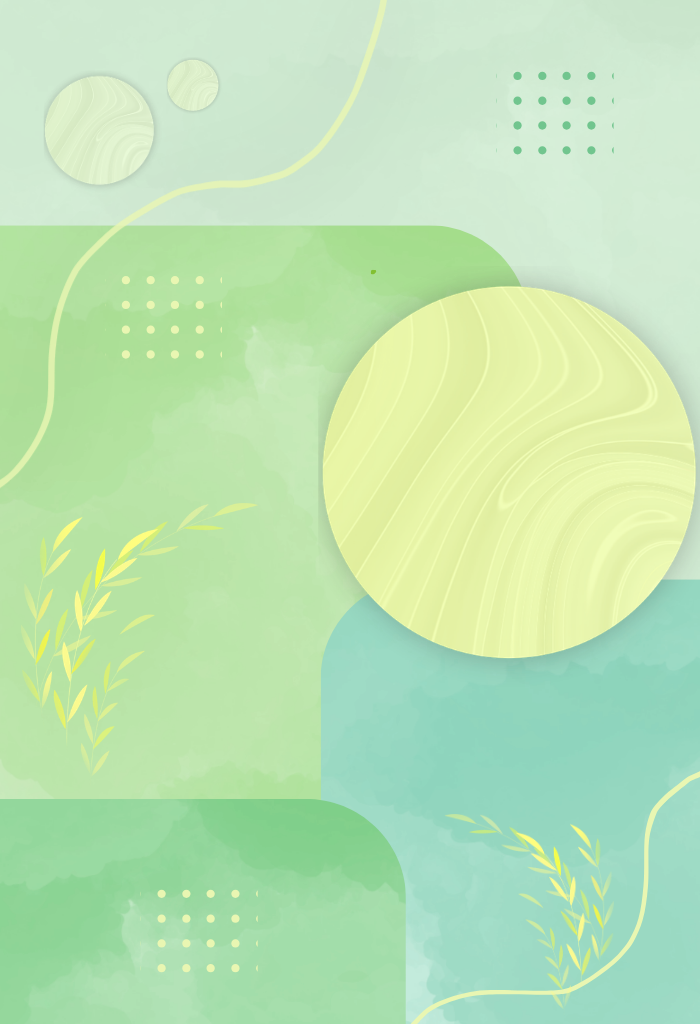
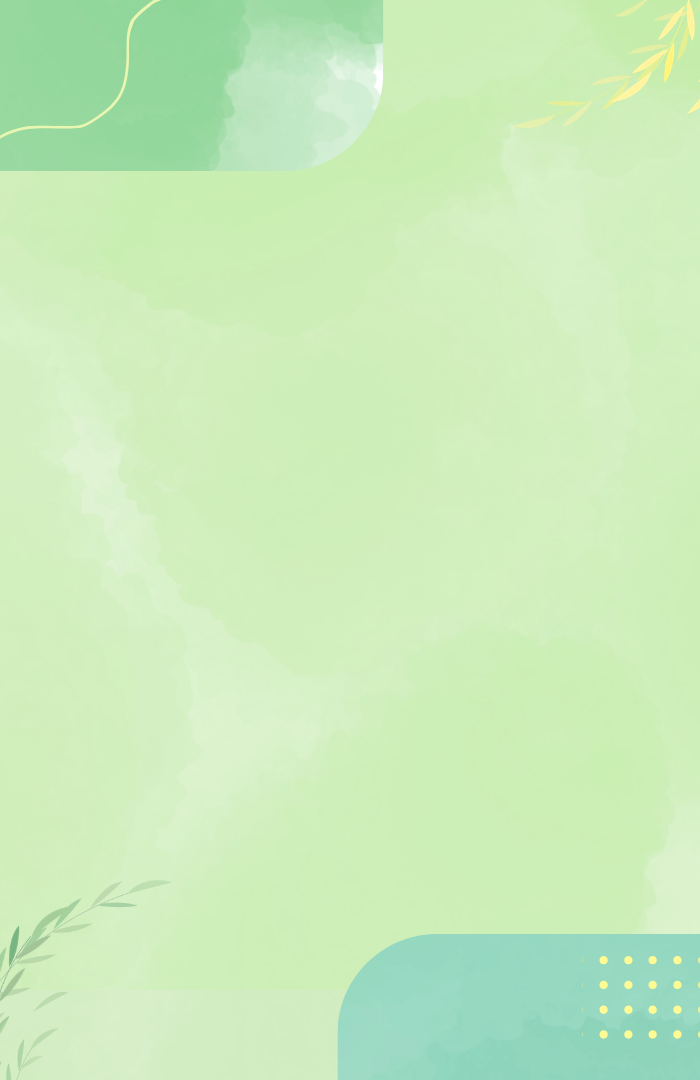
login画面createaccount画面のうち画像の変更、サイトの説明を加えた。

diff --git a/resources/views/auth/login.blade.php b/resources/views/auth/login.blade.php
@@ -37,12 +37,27 @@
                     </div>
                 </div>
             </div>
-            <div class="hidden md:block md:w-[50%] md:h-screen overflow-hidden">
-                <img
+            <div class="relative w-full min-h-screen md:block md:w-[50%] overflow-hidden">
+             <div class="absolute inset-0 w-full h-screen flex flex-col justify-center items-center">
+                <div class="flex flex-col gap-4 w-2/3">
+                   <p class="text-center text-xl font-bold text-yellow-500 opacity-75 block">仕事や勉強の合間に少しストレッチを行うことで<br>肩や首の痛みを改善しませんか？</p>
+                   <br>
+                   <p class="text-left text-sm mx-5 block">
+                    このサイトは設定した期間内で仕事や勉強時間を計り、休憩時間にストレッチを行うサイトです。
+                    <br>
+                    実際に指定したストレッチが3分程度あり、その後自分の指定した時間勉強や仕事を好きなタイミングで行うことができます。
+                    </p>
+                    <br>
+                    <div class="w-full h-full aspect-3/2 rounded-sm flex justify-center items-center relative z-10">
+                        <img src="{{ asset('img/trialimg.png') }}" alt="ストレッチ画像" class="w-full h-full object-contain object-center">
+                    </div>
+                </div>
+             </div>
+             <img
                     src="{{ asset('img/bgdesign.png') }}"
                     alt=""
-                    class="h- w-full object-cover object-center"
-                >
+                    class="absolute inset-0 w-full h-full object-fit pointer-events-none -z-10"
+             >
             </div>
         </div>
     </body>

diff --git a/resources/views/createaccount.blade.php b/resources/views/createaccount.blade.php
@@ -64,11 +64,28 @@
                 </form>
             </div>
         </div>
-        <div class="hidden md:block md:w-[50%] md:h-screen overflow-hidden">
-            <img
+        <div class="relative w-full min-h-screen md:block md:w-[50%] overflow-hidden">
+            <div class="absolute inset-0 w-full h-screen flex flex-col justify-center items-center">
+                <div class="flex flex-col gap-4 w-2/3">
+                  <p class="text-center text-xl font-bold text-yellow-500 opacity-75 block">仕事や勉強の合間に少しストレッチを行うことで<br>肩や首の痛みを改善しませんか？</p>
+                   <br>
+                   <p class="text-left text-sm mx-5 block">
+                    このサイトは設定した期間内で仕事や勉強時間を計り、休憩時間にストレッチを行うサイトです。
+                    <br>
+                    実際に指定したストレッチが3分程度あり、その後自分の指定した時間勉強や仕事を好きなタイミングで行うことができます。
+                    </p>
+                    <br>
+                    <div class="w-full h-full aspect-3/2 rounded-sm flex justify-center items-center relative z-10">
+                  <img src="{{ asset('img/trialimg.png') }}" alt="ストレッチ画像" class="w-full h-full object-contain object-center">
+                    </div>
+                </div>
+
+            </div>
+
+            <img    
                 src="{{ asset('img/bgdesign.png') }}"
                 alt=""
-                class="h-full w-full object-cover object-center"
+                class="absolute inset-0 w-full h-full object-fit pointer-events-none -z-10"
             >
         </div>
     </div>
